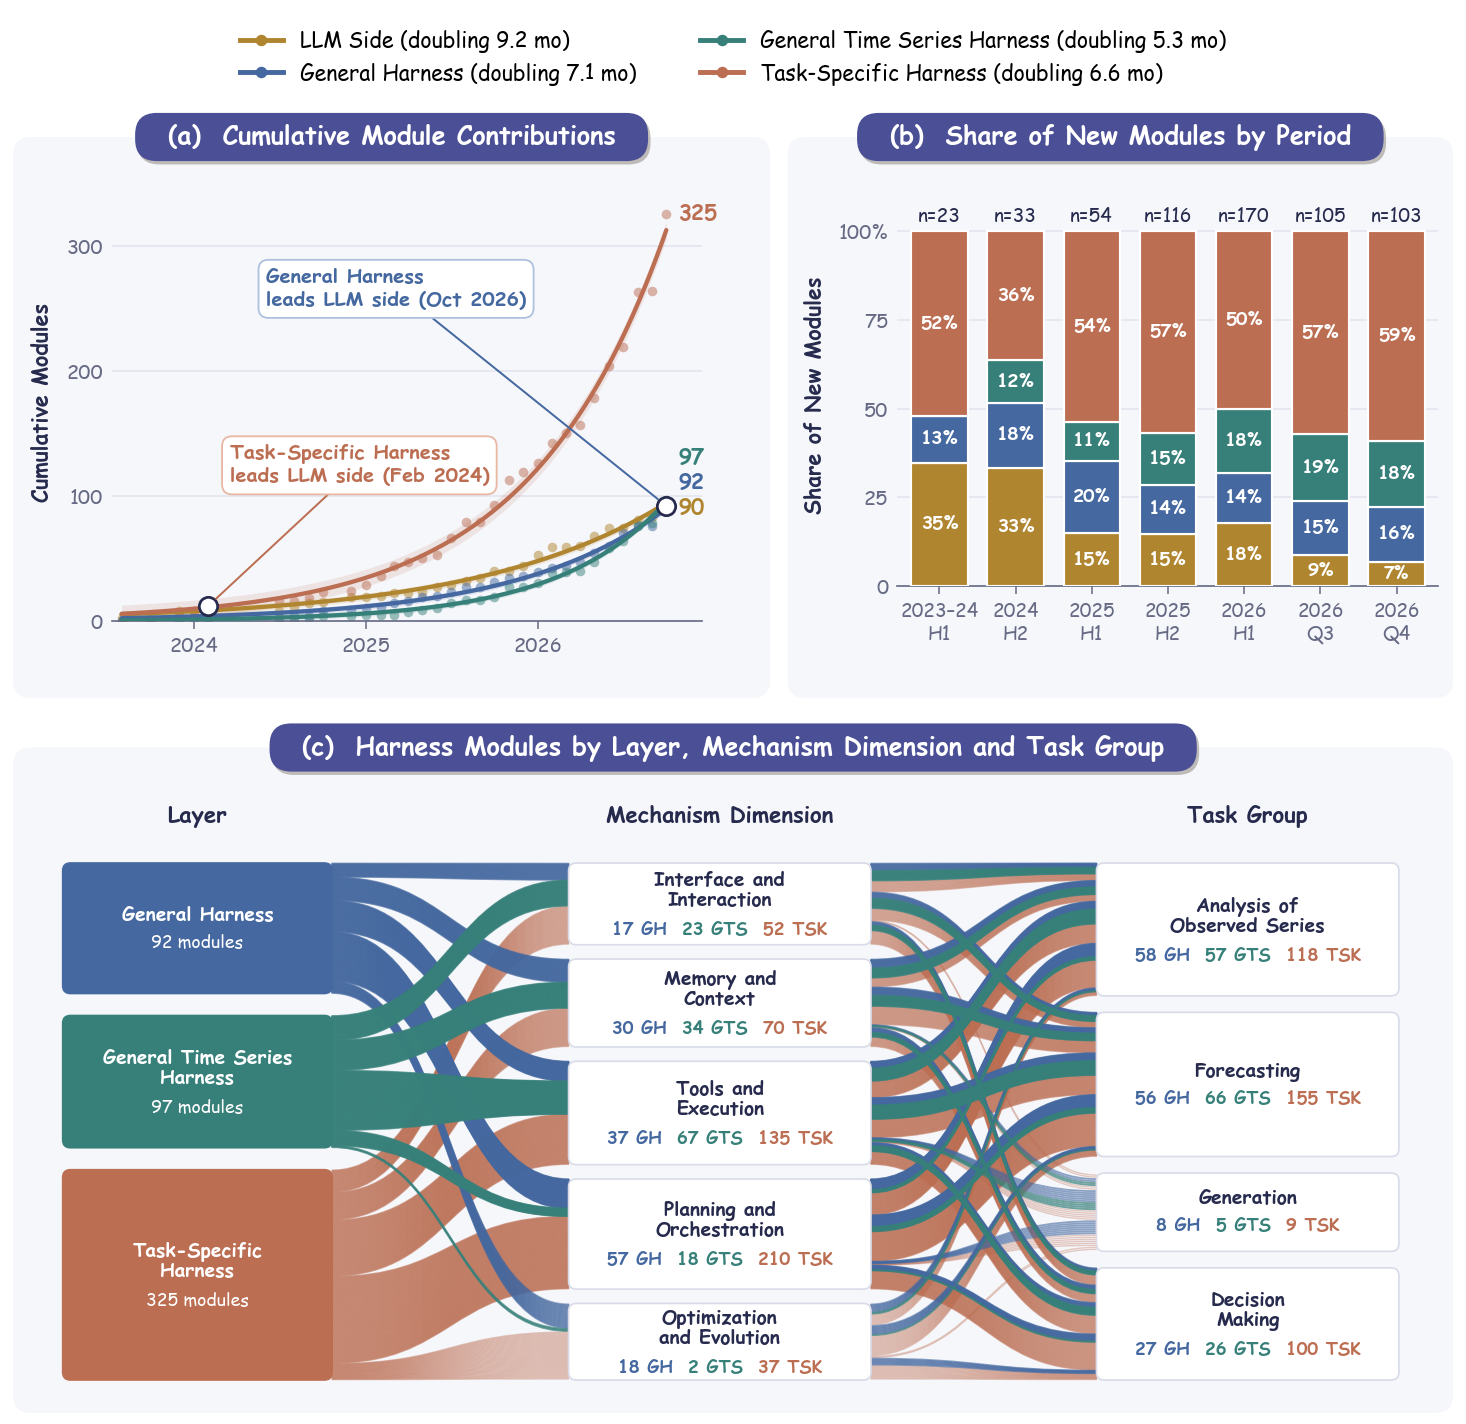
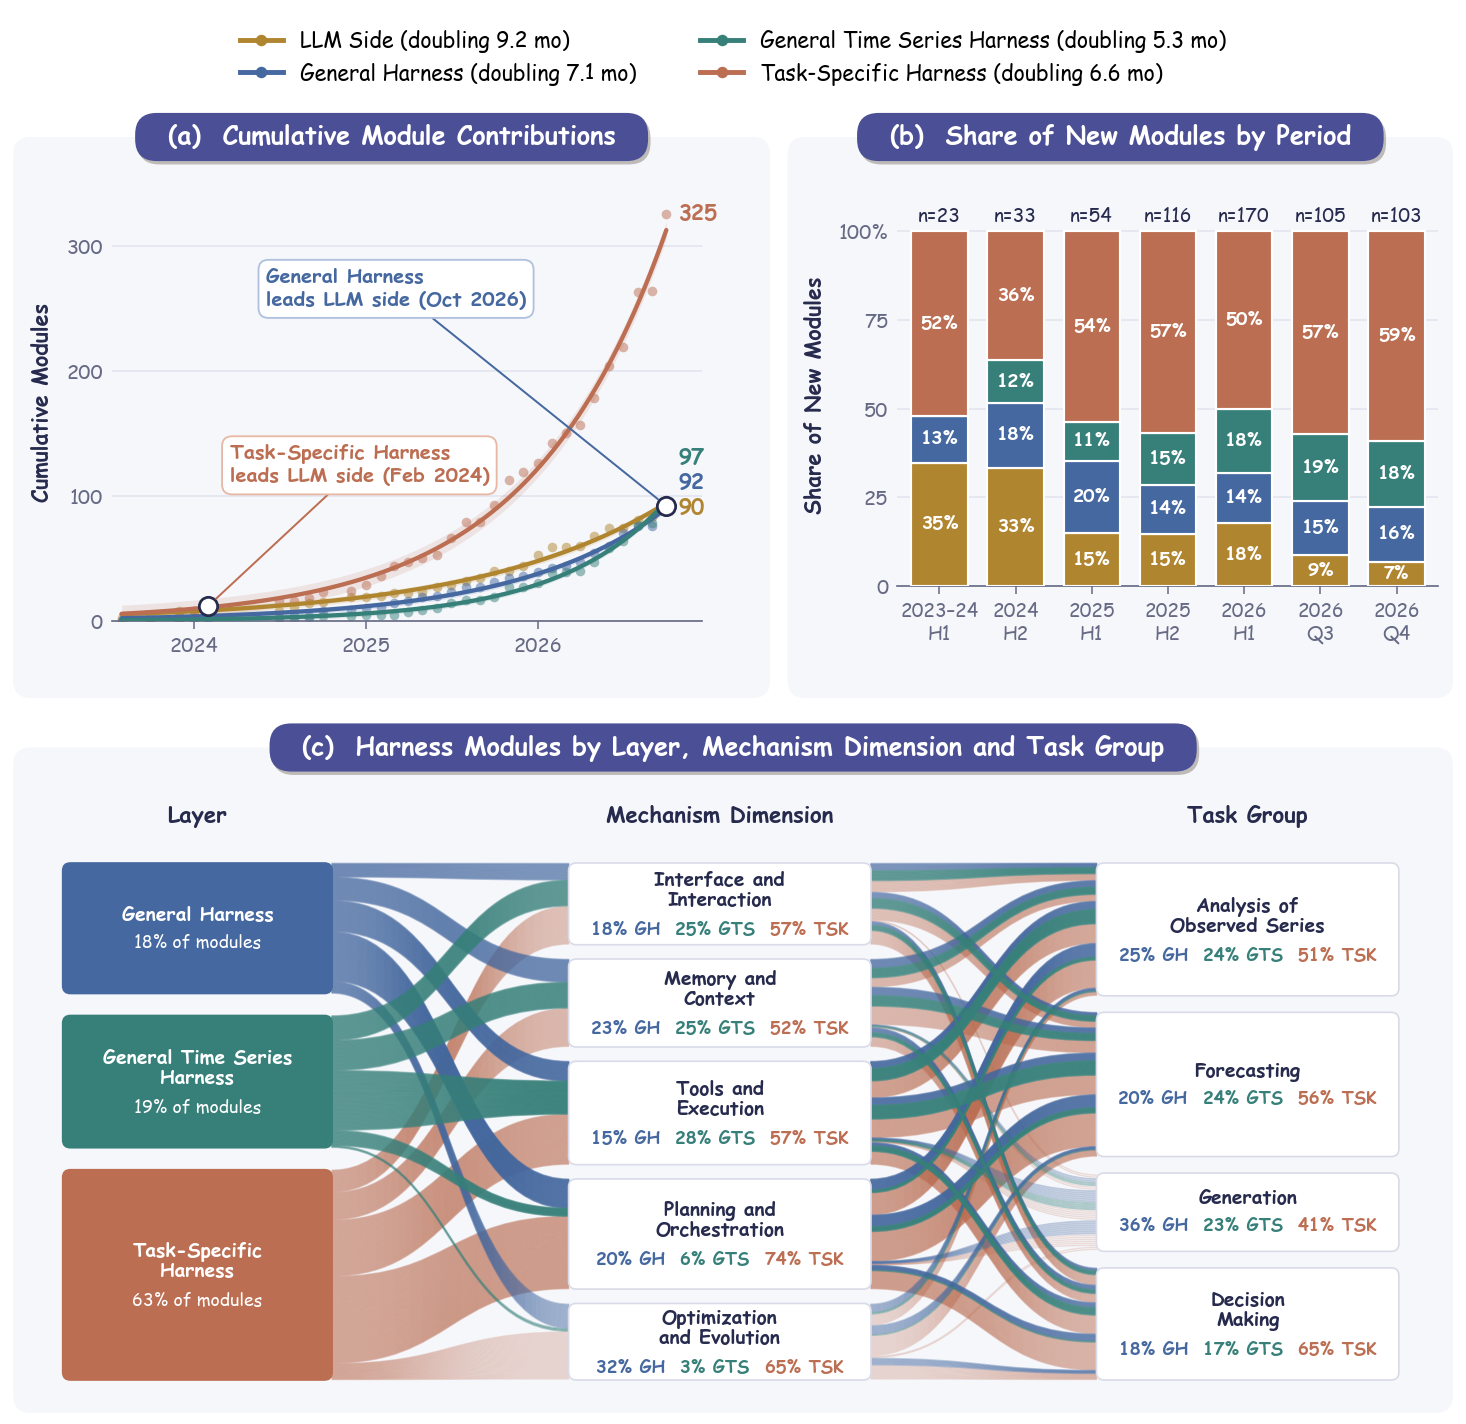
Fig. 3c: percentages instead of counts, lighter paths
Layer boxes give each layer's share of the 514 Harness modules; mechanism and
task-group boxes give the share of their modules in each layer (largest-remainder
rounding to 100%). Path opacity lowered. Caption and analysis paragraph quote the
same percentages (28% / 6% / 3% GTS; 49% / 44% / 35% shared).

diff --git a/main.tex b/main.tex
@@ -189,7 +189,7 @@ Figure~\ref{fig:overview} provides the landscape view of this survey. Start at t
 
 Figure~\ref{fig:contribution-trend} traces how the reviewed module contributions developed. All four parts grow approximately exponentially, but at different rates: the fitted doubling time is 9.2 months for the LLM side, 6.6 months for Task-Specific Harness, 7.1 months for General Harness, and 5.3 months for General Time Series Harness. Task-specific procedures remain the largest layer and have led the LLM side since February 2024; General Harness and General Time Series Harness overtook the LLM side only in October 2026. The composition of new work shifted accordingly: the LLM side supplied about a third of new modules until the end of 2024 (35\% and 33\%) but between 7\% and 18\% in each later period. Two observations follow. Research effort is moving from adapting the model toward engineering the runtime and temporal modules around it. At the same time, task-specific modules outnumber shared temporal modules by more than three to one (325 to 97). All panels and the counts in this paragraph cover the 162 works, dated by their first public version.
 
-Figure~\ref{fig:contribution-trend}c classifies every Harness module in the vocabularies of Table~\ref{tab:term-basis}, from its layer through its mechanism dimensions (Table~\ref{tab:component-vocab}) to the task groups it is applied to. Three observations follow. First, the layers differ in what they implement. Most General Time Series Harness modules provide tools and execution (67 of 97): time series adaptation mostly exposes windowed statistical and spectral operations, preprocessing, and point-in-time retrieval as tools. General Harness and Task-Specific Harness modules are instead dominated by planning and orchestration (57 of 92 and 210 of 325). Only 18 General Time Series Harness modules plan or orchestrate and only 2 optimize or evolve the Harness, so temporal control of a workflow, such as horizon-aware planning or cutoff-aware execution control, is still written either as a general mechanism or inside a task procedure. Second, sharing depends on the task group. In analysis of observed series and forecasting, interface, memory, and tool mechanisms come from shared modules at least as often as from task modules (for tools and execution, 62 shared against 54 task modules in analysis and 68 against 60 in forecasting), whereas planning remains task-specific (46 against 77 and 56 against 103). In decision making, task modules outnumber shared ones in every dimension, because the action space, constraints, and feedback are bound to the application. Third, generation is thin in every layer (22 module labels in all), and the panel locates empty cells: no General Time Series Harness module provides an interface or planning for generation, none optimizes or evolves the Harness for generation or decision making, and only 2 plan for decision making. These are the cells in which Section~\ref{sec:task-impact} reads a new work as filling a gap rather than adding another implementation.
+Figure~\ref{fig:contribution-trend}c classifies every Harness module in the vocabularies of Table~\ref{tab:term-basis}, from its layer through its mechanism dimensions (Table~\ref{tab:component-vocab}) to the task groups it is applied to. Three observations follow. First, the layers differ in what they implement. Most General Time Series Harness modules provide tools and execution (67 of 97): time series adaptation mostly exposes windowed statistical and spectral operations, preprocessing, and point-in-time retrieval as tools. General Harness and Task-Specific Harness modules are instead dominated by planning and orchestration (57 of 92 and 210 of 325). The General Time Series Harness thus supplies 28\% of the modules for tools and execution but only 6\% of those for planning and orchestration (18 modules) and 3\% of those for optimization and evolution (2 modules), so temporal control of a workflow, such as horizon-aware planning or cutoff-aware execution control, is still written either as a general mechanism or inside a task procedure. Second, sharing depends on the task group. Shared modules make up 49\% of the modules applied to analysis of observed series and 44\% of those applied to forecasting, but 35\% for decision making. In analysis and forecasting, interface, memory, and tool mechanisms come from shared modules at least as often as from task modules (for tools and execution, 62 shared against 54 task modules in analysis and 68 against 60 in forecasting), whereas planning remains task-specific (46 against 77 and 56 against 103). In decision making, task modules outnumber shared ones in every dimension, because the action space, constraints, and feedback are bound to the application. Third, generation is thin in every layer (22 module labels in all), and the panel locates empty cells: no General Time Series Harness module provides an interface or planning for generation, none optimizes or evolves the Harness for generation or decision making, and only 2 plan for decision making. These are the cells in which Section~\ref{sec:task-impact} reads a new work as filling a gap rather than adding another implementation.
 
 Across the temporal functions of Section~\ref{sec:general-ts-harness}, data management is provided mostly by shared modules (43 shared, 10 inside task procedures), whereas processing, context and memory, and validation are implemented about twice as often inside task procedures (58 and 108; 29 and 67; 32 and 60). Reuse is demonstrated for 42 of the 97 General Time Series Harness modules, that is, their sources apply them to at least two task groups. Together with its faster growth, this indicates that time series modules are consolidating around tools and data management, while orchestration, validation, and the improvement of the Harness itself remain task-bound. Section~\ref{sec:task-impact} shows that the same holds more strongly for tested solutions to time series requirements. Agent-agnostic workbenches carry this consolidation further: TSFLab \citep{tsflab2026} moves forecasting knowledge, temporal data protocols, and experiment execution out of individual Agents into shared infrastructure that any compatible coding Agent can use and that maintains itself. The coding procedure and complete profiles appear in Appendix~\ref{app:full-ledger}.
 
@@ -209,7 +209,7 @@ The paper follows the terms of Eq.~\eqref{eq:tsa-formula}: Section~\ref{sec:what
 \begin{figure}[!t]
 \centering
 \includegraphics[width=\linewidth]{artifacts/unified_v7_20261106/fig03/Figure03_V7.pdf}
-\caption{Module contributions by layer for the 162 reviewed works. (a) Monthly cumulative counts (points) with least-squares exponential fits (lines) and bands of one residual standard deviation; the legend gives each fitted doubling time. Open circles mark the months from which Task-Specific Harness and General Harness lead the LLM side. (b) Share of newly published modules in each period, with the number of modules above each bar; the 2026 Q3 bar covers July--September and the 2026 Q4 bar covers October 2026. (c) Classification of every Harness module in the vocabularies of Table~\ref{tab:term-basis}, read from its layer (left, in the layer color) through its mechanism dimensions (Table~\ref{tab:component-vocab}) to the task groups it is applied to. Each path is one pair of a mechanism dimension and a task group of one module and keeps the layer color; a module with several labels draws several paths, and the numbers in each box count modules by layer. LLM-side modules carry no mechanism label and are not drawn; one General Harness module has no task label. Each module counts once at its assigned layer in (a) and (b), and dates follow the first public version.}
+\caption{Module contributions by layer for the 162 reviewed works. (a) Monthly cumulative counts (points) with least-squares exponential fits (lines) and bands of one residual standard deviation; the legend gives each fitted doubling time. Open circles mark the months from which Task-Specific Harness and General Harness lead the LLM side. (b) Share of newly published modules in each period, with the number of modules above each bar; the 2026 Q3 bar covers July--September and the 2026 Q4 bar covers October 2026. (c) Classification of every Harness module in the vocabularies of Table~\ref{tab:term-basis}, read from its layer (left, in the layer color) through its mechanism dimensions (Table~\ref{tab:component-vocab}) to the task groups it is applied to. Each path is one pair of a mechanism dimension and a task group of one module and keeps the layer color; a module with several labels draws several paths. Layer boxes give each layer's share of the 514 Harness modules; the other boxes give the share of their modules in each layer. LLM-side modules carry no mechanism label and are not drawn; one General Harness module has no task label. Each module counts once at its assigned layer in (a) and (b), and dates follow the first public version.}
 \label{fig:contribution-trend}
 \end{figure}
 

diff --git a/artifacts/unified_v7_20261106/fig03/make_contribution_timeline_v7.py b/artifacts/unified_v7_20261106/fig03/make_contribution_timeline_v7.py
@@ -327,6 +327,16 @@ GROUP_LABEL = {"analysis": "Analysis of\nObserved Series", "forecasting": "Forec
 NODE_FILL, NODE_EDGE = "#FFFFFF", "#D9DBE8"
 
 
+def shares(counts: list[int]) -> list[int]:
+    """Whole percentages that sum to 100 (largest remainder)."""
+    total = sum(counts)
+    raw = [100 * c / total for c in counts]
+    out = [int(r) for r in raw]
+    for i in sorted(range(len(raw)), key=lambda i: raw[i] - out[i], reverse=True)[:100 - sum(out)]:
+        out[i] += 1
+    return out
+
+
 def parallel_paths(fig, months):
     """Layer -> mechanism dimension -> task group. Each path is one (mechanism dimension, task group) pair of one
     Harness module, starts at the module's layer and keeps the layer colour, so the panel reads as the classification
@@ -370,8 +380,8 @@ def parallel_paths(fig, months):
                 yb, hh = boxes[(a, k)]
                 for j, i in enumerate(idx):
                     ends[(i, a, side)] = yb + hh - hh * (j + 1) / (len(idx) + 1)
-    style = {"GH": (COLORS["General Harness"], 1.2, 0.6), "GTS": (COLORS["General Time Series Harness"], 1.3, 0.7),
-             "TSK": (COLORS["Task-Specific Harness"], 0.9, 0.35)}
+    style = {"GH": (COLORS["General Harness"], 1.2, 0.32), "GTS": (COLORS["General Time Series Harness"], 1.3, 0.38),
+             "TSK": (COLORS["Task-Specific Harness"], 0.9, 0.2)}
     for i in sorted(range(len(items)), key=lambda i: ("TSK", "GH", "GTS").index(items[i][0])):
         col, lw, al = style[items[i][0]]
         for a in (0, 1):
@@ -393,13 +403,15 @@ def parallel_paths(fig, months):
             cx.add_patch(Box((XS[a], yb), BW, hh, boxstyle="round,pad=0,rounding_size=0.07", fc=col, ec=col, lw=1.1, zorder=3))
             cx.text(XS[a] + BW / 2, t_y, "\n".join(lines), ha="center", va="center", fontsize=12.5,
                     fontweight="bold", color="white", zorder=4, linespacing=1.0)
-            cx.text(XS[a] + BW / 2, mid - block / 2 + 0.1, f"{LAYER_MODULES[k]} modules", ha="center", va="center",
+            pct = dict(zip(HARNESS, shares([LAYER_MODULES[l] for l in HARNESS])))
+            cx.text(XS[a] + BW / 2, mid - block / 2 + 0.1, f"{pct[k]}% of modules", ha="center", va="center",
                     fontsize=11.5, color="white", zorder=4)
             continue
         cx.add_patch(Box((XS[a], yb), BW, hh, boxstyle="round,pad=0,rounding_size=0.07", fc=NODE_FILL, ec=NODE_EDGE, lw=1.1, zorder=3))
         cx.text(XS[a] + BW / 2, t_y, "\n".join(lines), ha="center", va="center", fontsize=12.5,
                 fontweight="bold", color=INK, zorder=4, linespacing=1.0)
-        parts = [(f"{split[a][(k, l)]} {l}", COLORS[LAYER_NAME[l]]) for l in HARNESS]
+        pct = shares([split[a][(k, l)] for l in HARNESS])   # share of the box's modules in each layer
+        parts = [(f"{q}% {l}", COLORS[LAYER_NAME[l]]) for q, l in zip(pct, HARNESS)]
         widths = []
         for txt, _ in parts:
             probe = cx.text(0, -10, txt, fontsize=11.5, fontweight="bold")
